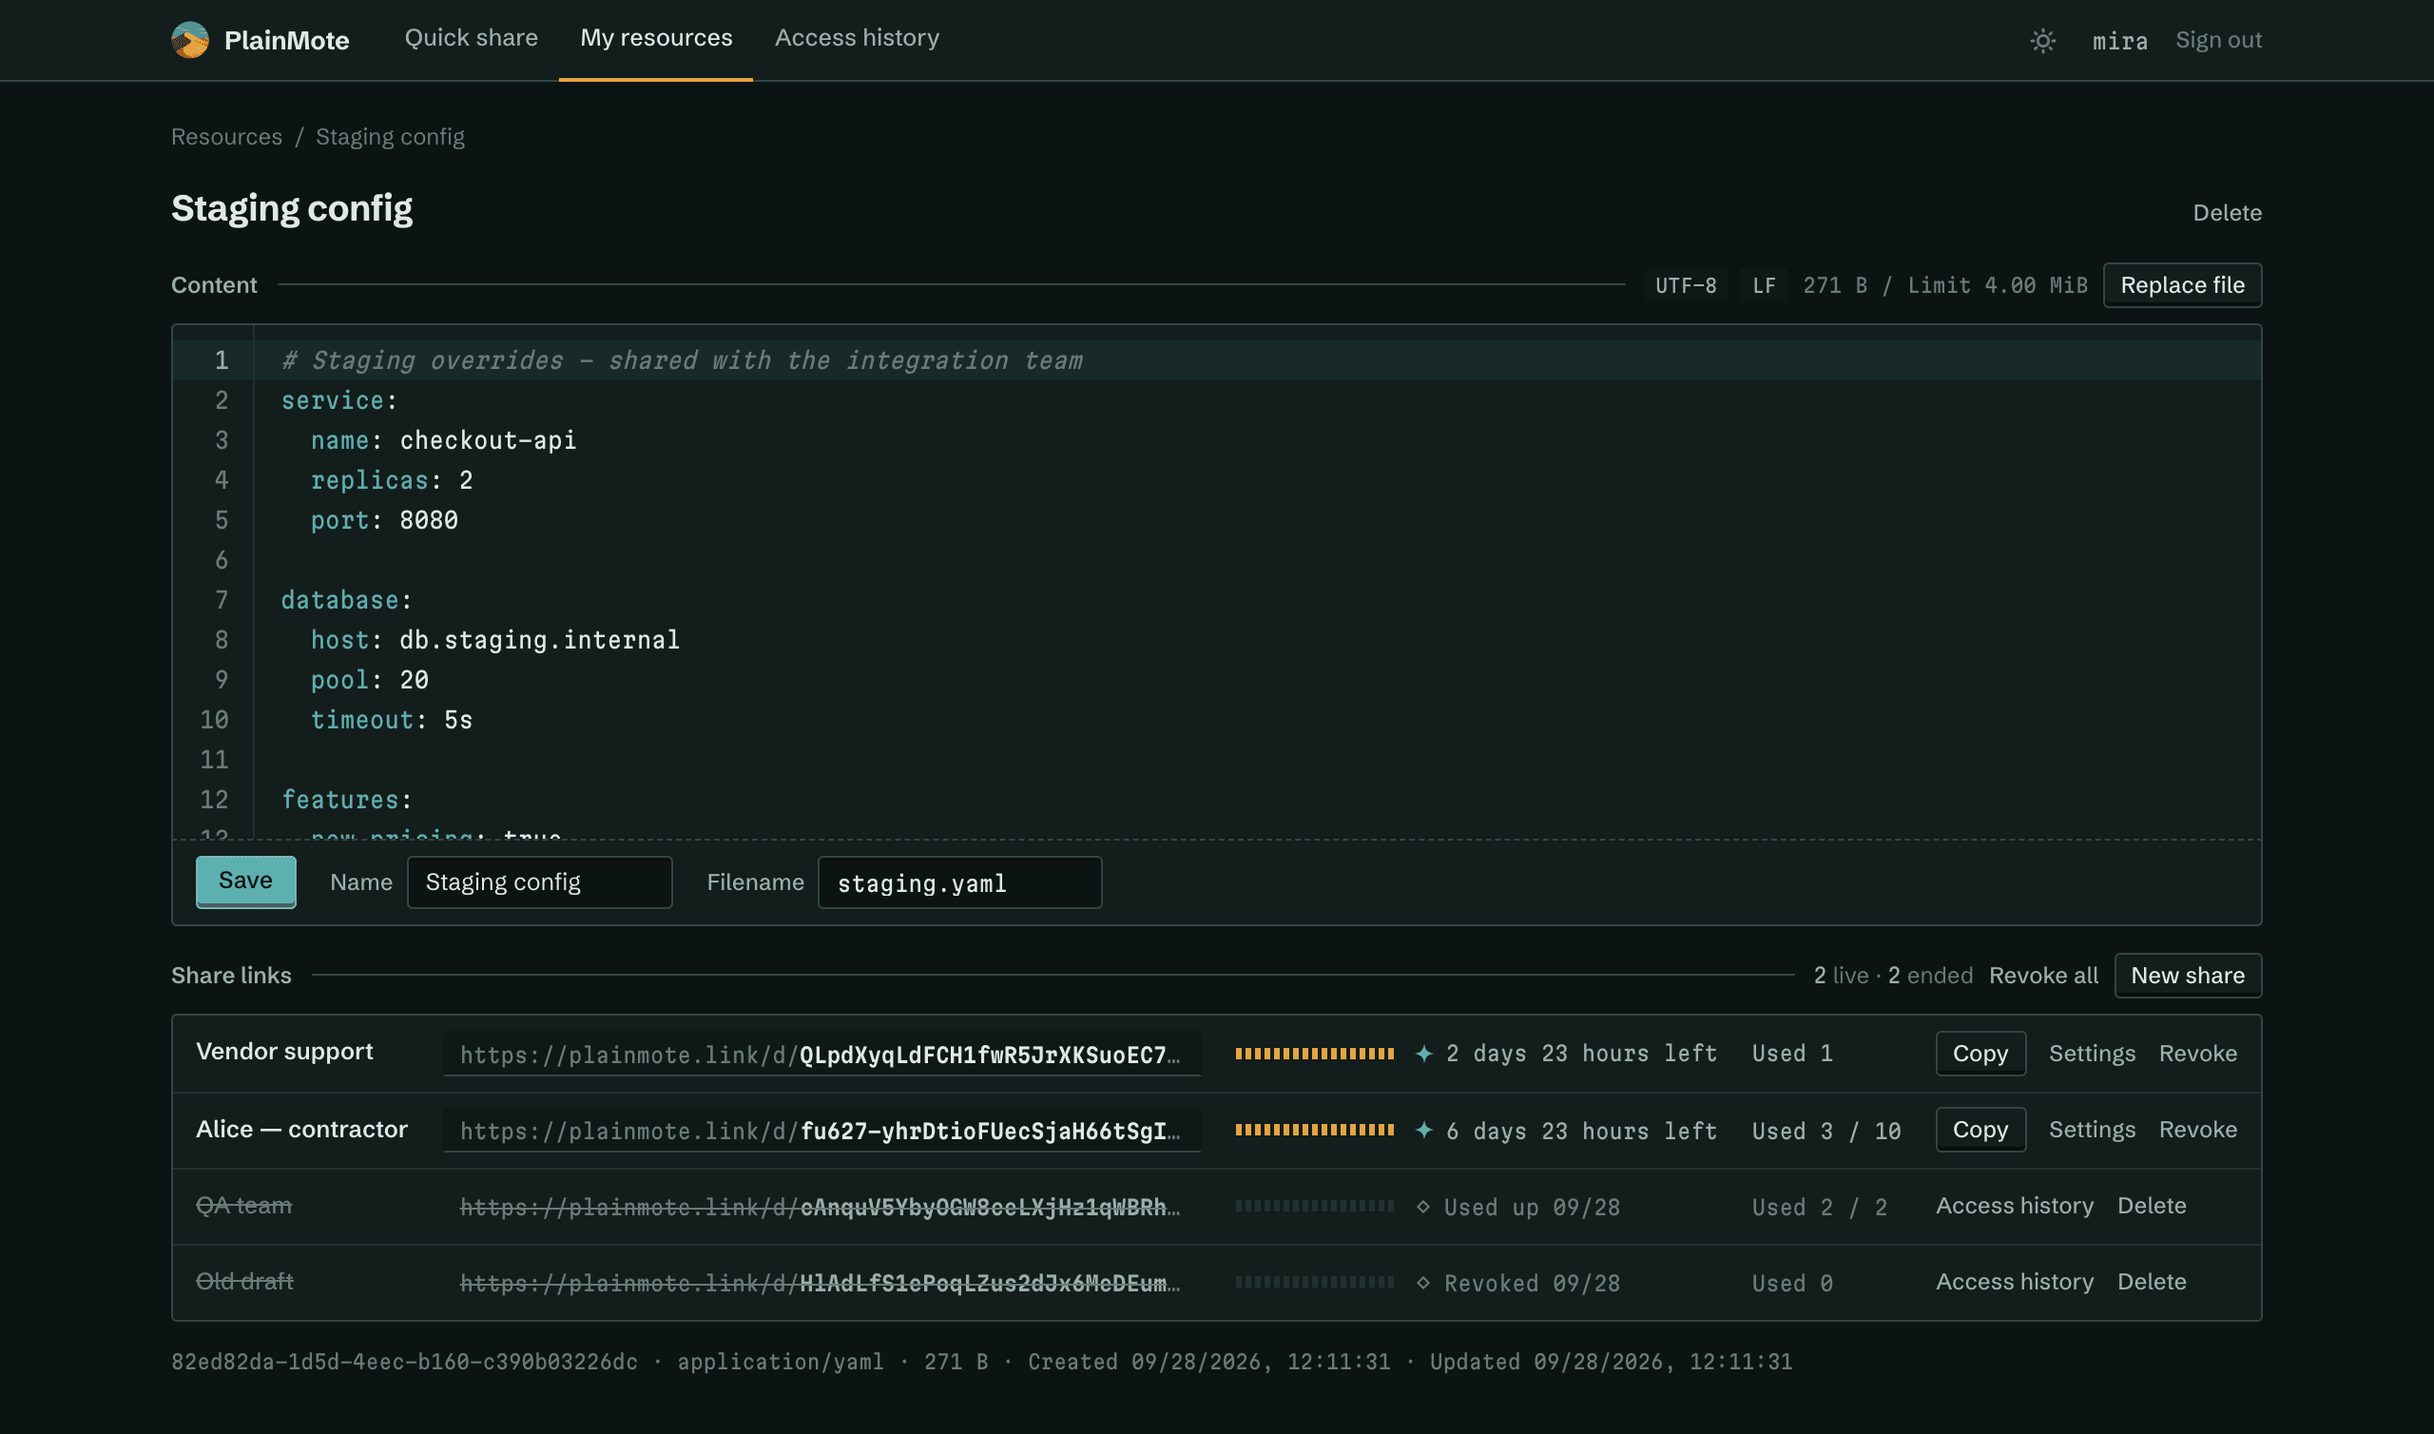
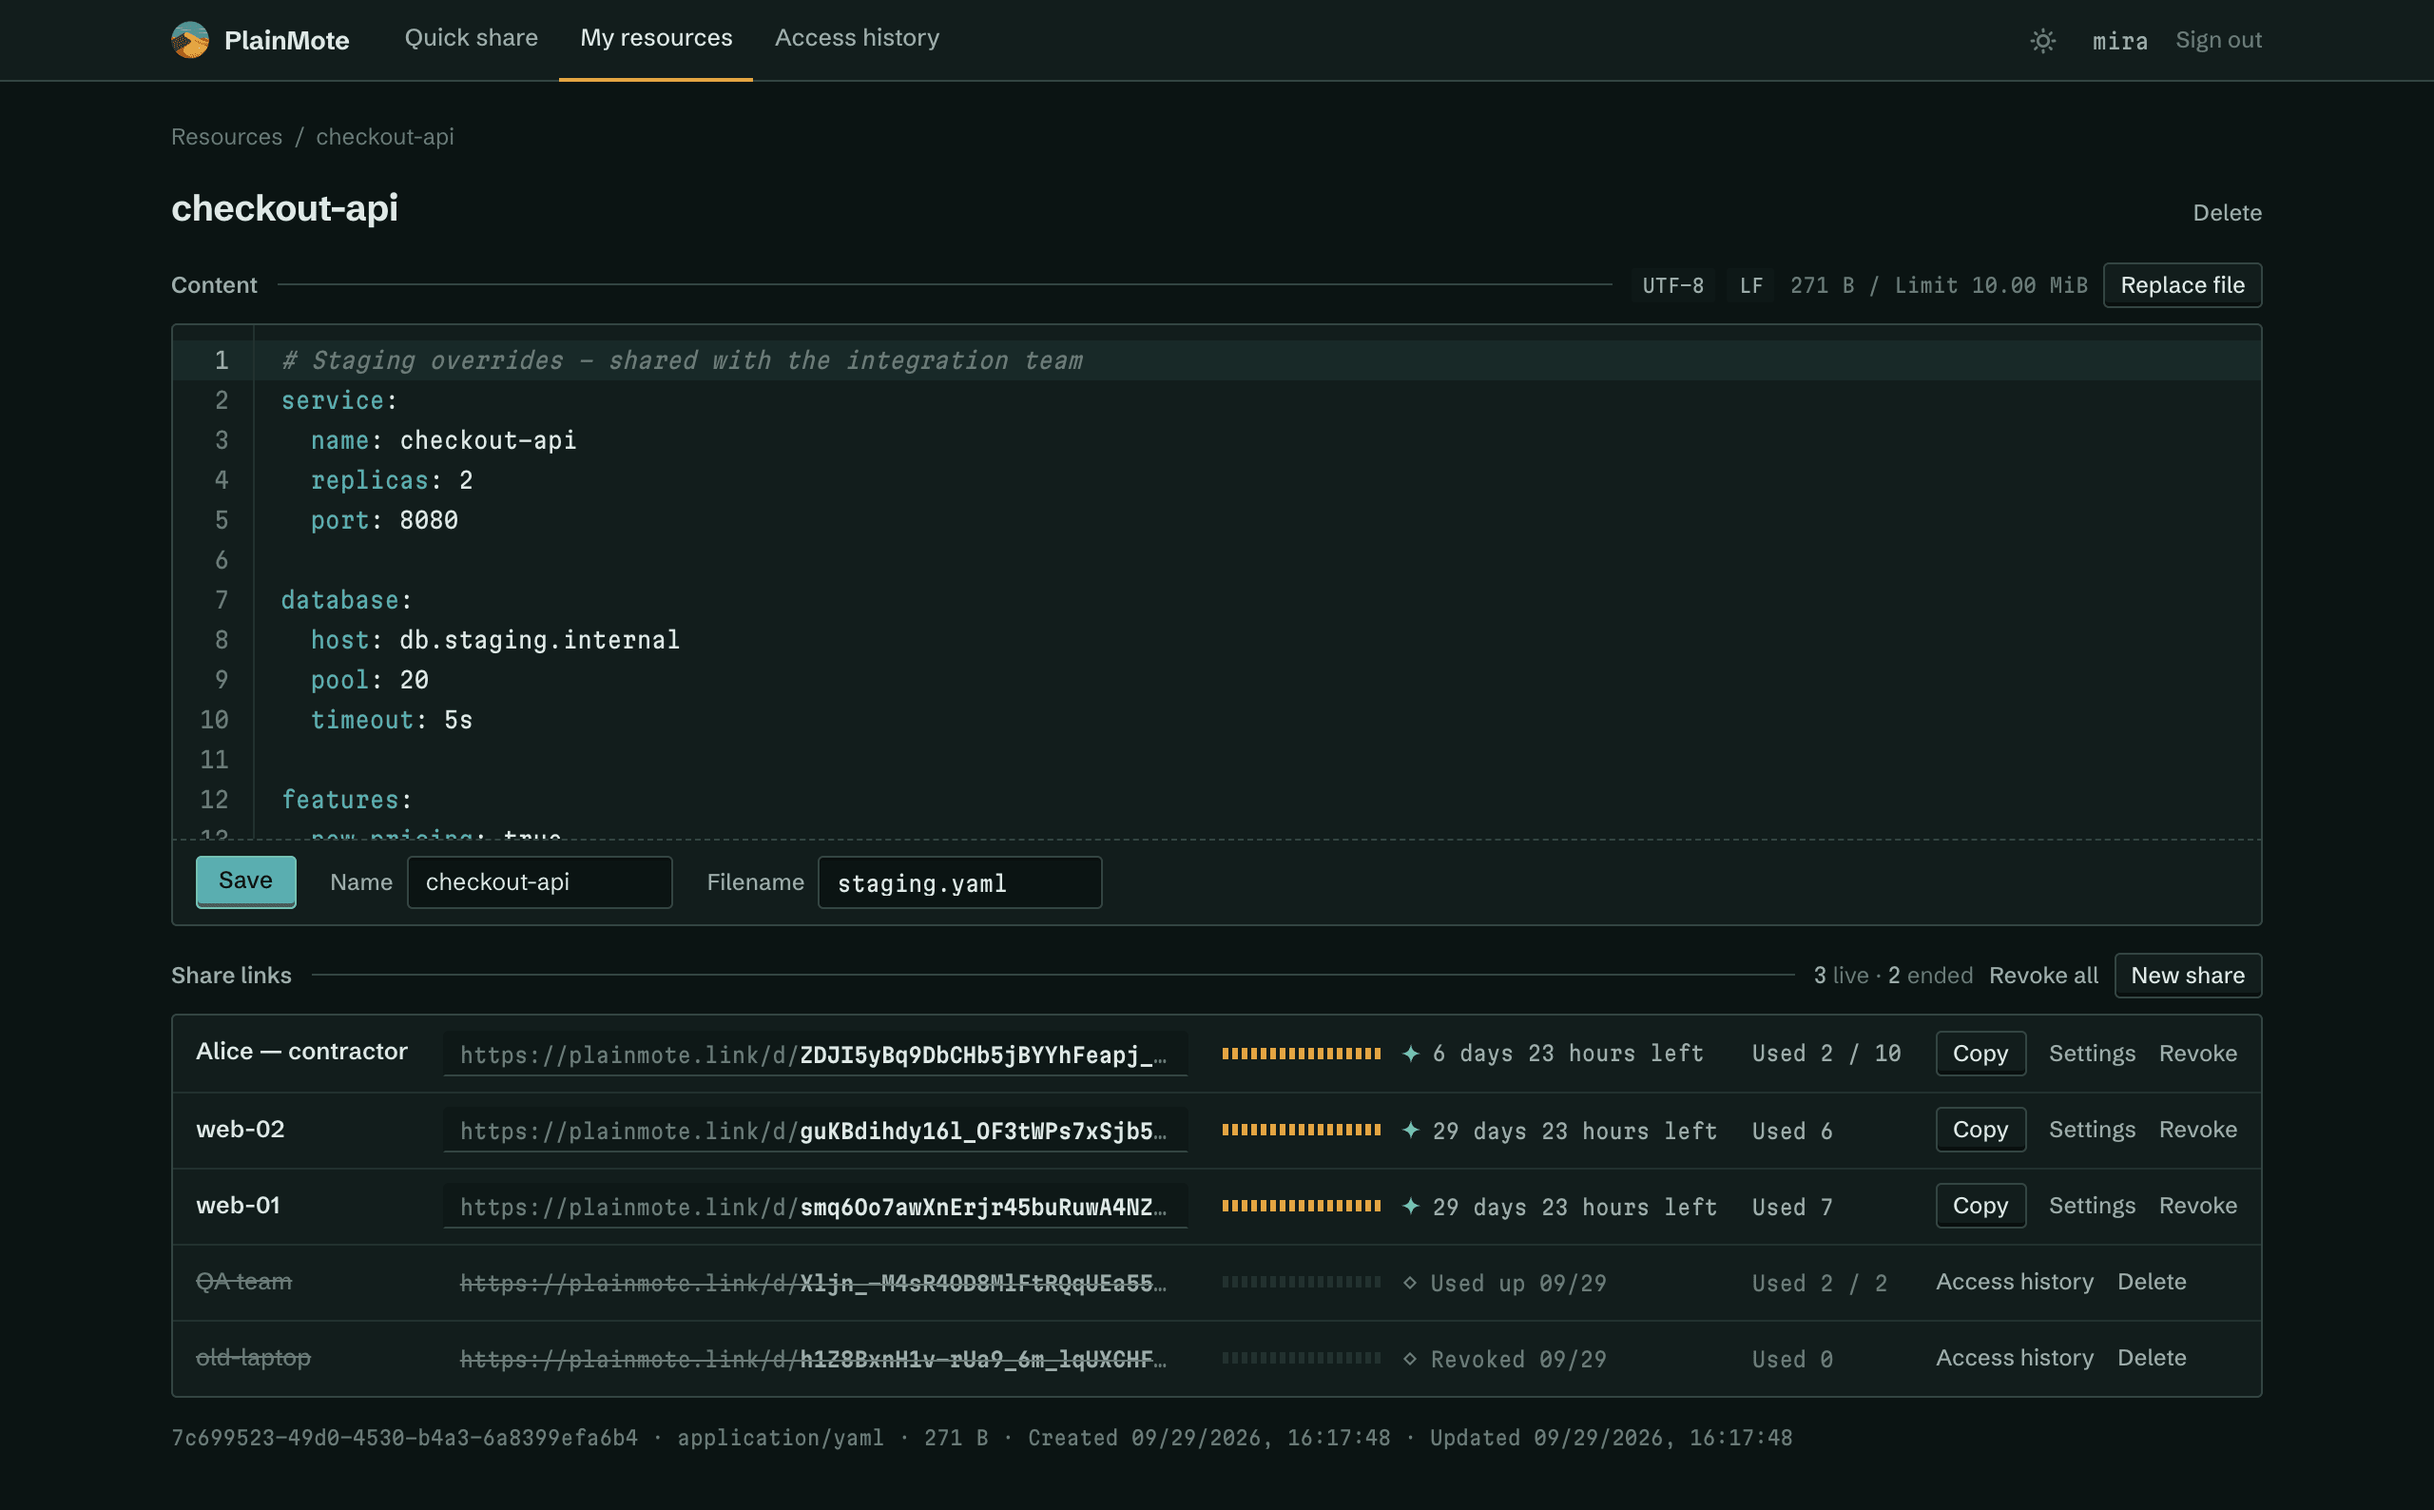
docs: show configs and logs in the README and the social card
The screenshots are retaken on a demo account shaped like the new
positioning: one config shared with two machines polling it - their
requests answered 304 - and with two people, one link used up and one
revoked. The README now opens on the quick share box with a
highlighted log, then shows the per-link list and the access history.
Its resources line says what an account keeps and that an edit
reaches every link at once. The social card leads with "Share configs
and logs as links. One for each person or machine."

Claude-Session: https://claude.ai/code/session_01TLTvWiU7ViTyFb9zNWuoei

diff --git a/README.md b/README.md
@@ -11,14 +11,14 @@ Share configs, logs and other files as links. The content is kept byte for byte;
 Try it at [plainmote.link](https://plainmote.link).
 
 <picture>
-  <source media="(prefers-color-scheme: dark)" srcset="docs/screenshots/share-links-dark.png">
-  <img src="docs/screenshots/share-links-light.png" alt="A resource and its share links: one link per recipient, each with its own time left and use count, with revoked and used-up links listed apart">
+  <source media="(prefers-color-scheme: dark)" srcset="docs/screenshots/quick-share-dark.png">
+  <img src="docs/screenshots/quick-share-light.png" alt="The quick share box with a pasted log, its times, levels and key=value pairs highlighted, and the lifetime scale from 10 minutes to 30 days">
 </picture>
 
 ## Features
 
 - **Quick share**: no account needed. Paste text or upload a file (up to 10 MiB) on the home page and get a link that lasts from 10 minutes to 30 days, or share straight from a terminal with curl.
-- **Resources and share links**: sign in to keep text and files, then give each recipient a separate link with its own expiry and use limit. Revoking one leaves the others working.
+- **Resources and share links**: sign in to keep configs, logs and other files (100 MiB per account), then give each person or machine its own link with its own expiry and use limit. Revoking one leaves the others working, and an edit reaches every link at once.
 - **Access history**: every access through a link is recorded with its time, result, source IP and client, visible only to the owner of the resource.
 - **Remote resources**: keep just a public URL; the content is fetched from the origin on every access.
 - **For programs that poll**: share links answer `HEAD` and conditional requests - `If-None-Match` or `If-Modified-Since` gets `304` with no body while the content is unchanged. Each answer still counts as a use and is recorded.
@@ -29,8 +29,13 @@ Try it at [plainmote.link](https://plainmote.link).
 - **Interface**: English, Simplified Chinese, Traditional Chinese, Japanese, French and German, chosen from the browser's language; the home page and legal pages also have an address per language (such as `/zh-cn/` or `/ja/`) for search engines. Light and dark themes.
 
 <picture>
+  <source media="(prefers-color-scheme: dark)" srcset="docs/screenshots/share-links-dark.png">
+  <img src="docs/screenshots/share-links-light.png" alt="A config and its share links: one for each machine and each person, each with its own time left and use count, with revoked and used-up links listed apart">
+</picture>
+
+<picture>
   <source media="(prefers-color-scheme: dark)" srcset="docs/screenshots/access-history-dark.png">
-  <img src="docs/screenshots/access-history-light.png" alt="Access history: the time, result, share link and source IP of every access">
+  <img src="docs/screenshots/access-history-light.png" alt="Access history: the time, result, share link and source IP of every access, machines polling alongside people opening the link">
 </picture>
 
 ## Sharing from a terminal

diff --git a/README.zh-CN.md b/README.zh-CN.md
@@ -11,14 +11,14 @@
 参考部署：[plainmote.link](https://plainmote.link)
 
 <picture>
-  <source media="(prefers-color-scheme: dark)" srcset="docs/screenshots/share-links-dark.png">
-  <img src="docs/screenshots/share-links-light.png" alt="一份资源及其分享链接：每位接收者一条链接，各自的剩余时间与使用次数，已撤销和已用完的链接单独列出">
+  <source media="(prefers-color-scheme: dark)" srcset="docs/screenshots/quick-share-dark.png">
+  <img src="docs/screenshots/quick-share-light.png" alt="快速分享输入框：粘贴的日志中时间、级别和 key=value 均已高亮，下方为 10 分钟至 30 天的有效期刻度">
 </picture>
 
 ## 功能
 
 - **快速分享**：无需登录，在首页粘贴文本或上传文件（最大 10 MiB）即可得到一条有效期 10 分钟至 30 天的链接；也可以直接在终端里用 curl 分享。
-- **资源与分享链接**：登录后保存文本和文件，为每位接收者创建独立的链接，分别设置有效期和使用次数，撤销其中一条不影响其他链接。
+- **资源与分享链接**：登录后保存配置、日志和其他文件（每个账号 100 MiB），为每个人、每台机器创建独立的链接，分别设置有效期和使用次数；撤销其中一条不影响其他链接，修改内容后所有链接立即生效。
 - **访问记录**：每次通过链接的访问都记录时间、结果、来源 IP 和客户端信息，仅资源所有者可见。
 - **远程资源**：可以只保存一个公网地址，每次访问时实时从源站获取内容。
 - **便于程序轮询**：分享地址支持 `HEAD` 和条件请求，携带 `If-None-Match` 或 `If-Modified-Since` 时，内容未变化则返回不带内容的 `304`；每次应答仍计一次使用并记录。
@@ -29,8 +29,13 @@
 - **界面**：英语、简体中文、繁体中文、日语、法语和德语，按浏览器语言显示；首页和法律页面另有各语言的独立地址（如 `/zh-cn/`、`/ja/`），供搜索引擎分别收录。浅色与深色主题。
 
 <picture>
+  <source media="(prefers-color-scheme: dark)" srcset="docs/screenshots/share-links-dark.png">
+  <img src="docs/screenshots/share-links-light.png" alt="一份配置及其分享链接：每台机器、每个人各一条，各自的剩余时间与使用次数，已撤销和已用完的链接单独列出">
+</picture>
+
+<picture>
   <source media="(prefers-color-scheme: dark)" srcset="docs/screenshots/access-history-dark.png">
-  <img src="docs/screenshots/access-history-light.png" alt="访问记录：每次访问的时间、结果、分享链接和来源 IP">
+  <img src="docs/screenshots/access-history-light.png" alt="访问记录：每次访问的时间、结果、分享链接和来源 IP，机器的轮询与人的打开并列可见">
 </picture>
 
 ## 终端分享
